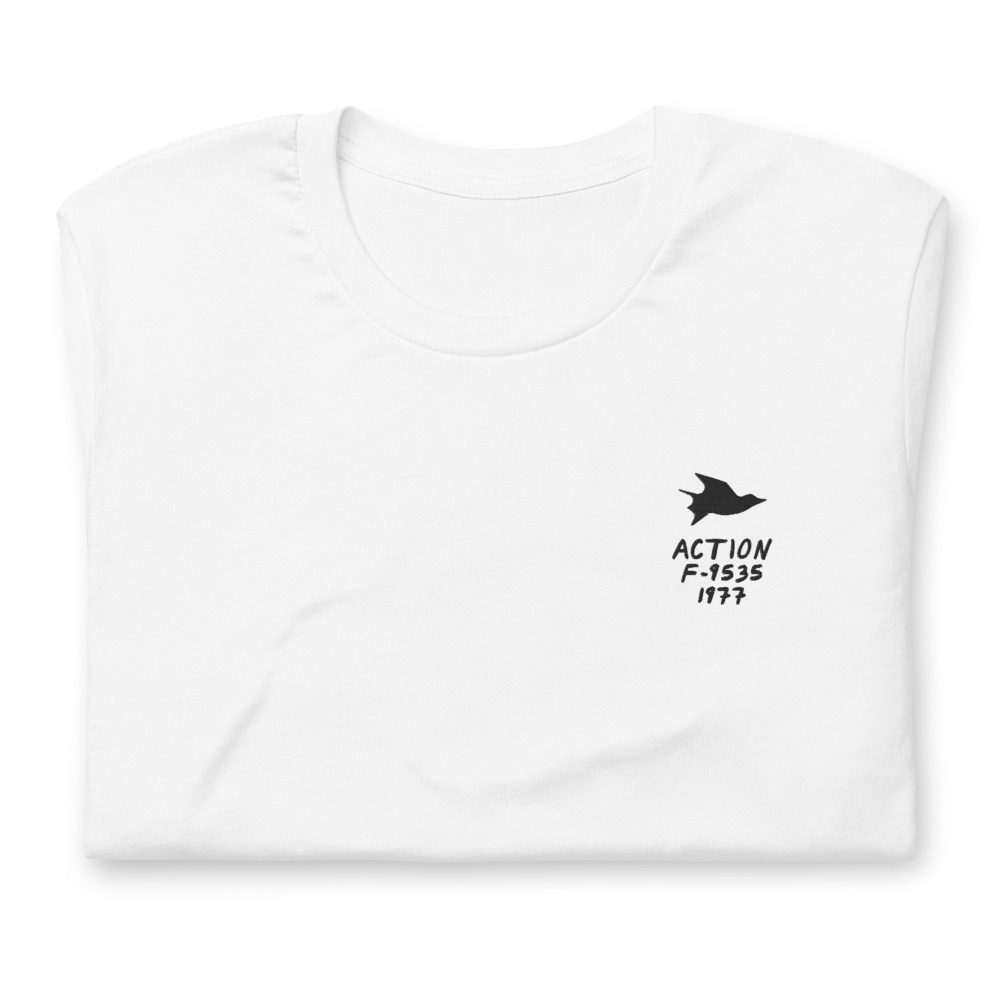
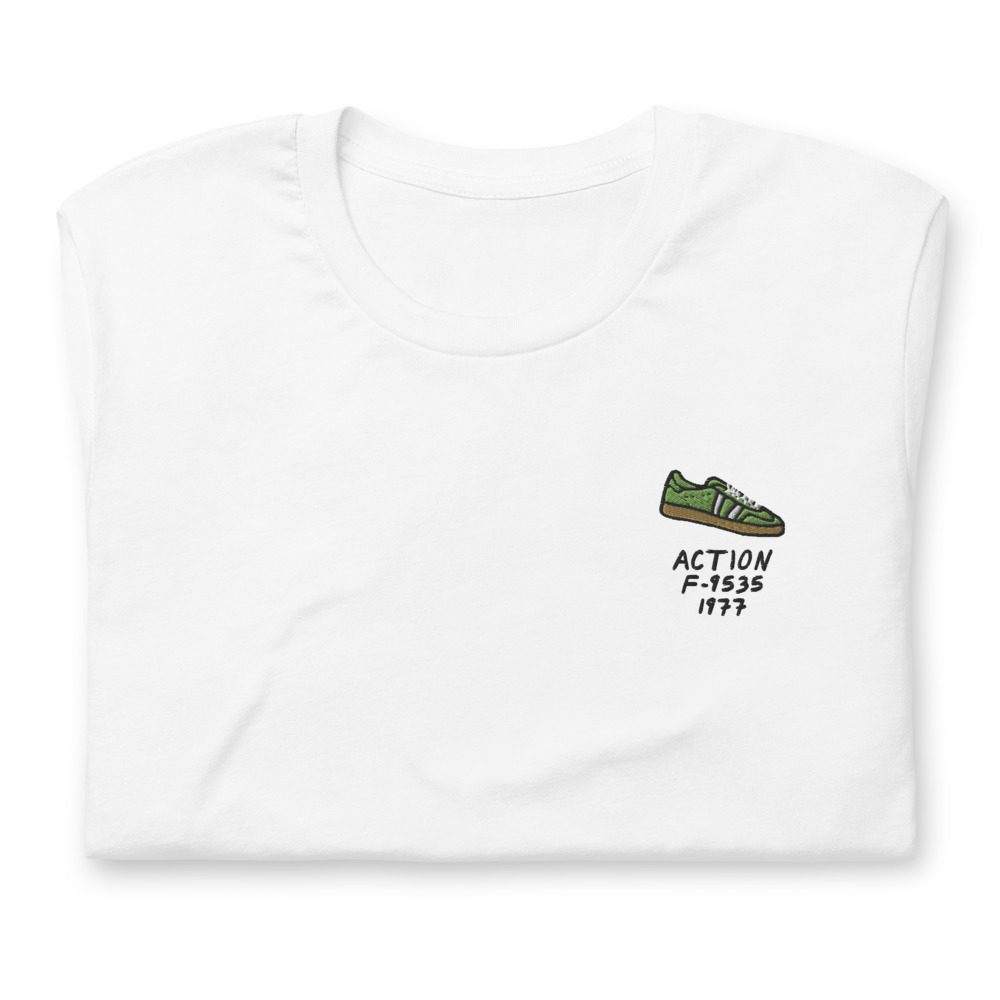
Deploy build from source 795fe97

Changed region(s): [[0.651, 0.465, 0.806, 0.62]]

diff --git a/about.html b/about.html
@@ -49,7 +49,7 @@
 <p>I’ve been chasing both ever since: that warm 5 o’clock hour, and records that hold together from side A to side B.</p>
 <h2>Some of what I play</h2>
 <p>Random picks, in no order. Ask me tomorrow and it’d be a different list.</p>
-<p class="picks">Helene Smith, Sharon Jones &amp; The Dap-Kings, Whitney Houston, Jorge Autuori, Labi Siffre, Greenflow, Sylvester, Odyssey, Elis Regina, Letta Mbulu, Kalima, Roy Ayers Ubiquity, Evelyn “Champagne” King, Leo’s Sunshipp, Robert Palmer, The Esquires, Stevens &amp; Foster, The Brothers Johnson, Herb Alpert, Darondo, Willie Wright, NEL OLIVER, Depeche Mode, Oby Onyioha, The Jacksons, Wilfred Luckie, Gilberto Gil, Amerie.<br>
+<p class="picks">Isabelle Antena, Elis Regina, Madonna, Anita Ward, Marvin Gaye, Willie Wright, Khruangbin, Phyllis Hyman, Chemise, Raw Silk, Robert Lester Folsom, Thee Sacred Souls, Sean Paul, Jungle, The Blackbyrds, Volta Jazz, Say She She, Michael Jackson, Janet Jackson, Pamoja, Antena, El Guincho, Prince, BADBADNOTGOOD, Gene Harris, Evinha, Leo’s Sunshipp, Odyssey.<br>
 <span class="m">Shuffled <time datetime="2026-10-20">2026-10-20</time>.</span></p>
 <p>A few labels I dig through: Athens of the North, Numero Group, Salsoul, Awesome Tapes from Africa, Jazz Dispensary.</p>
 <h2>The shelf</h2>

diff --git a/shop/g-39.html b/shop/g-39.html
@@ -68,7 +68,7 @@
 <h1>The Blackbyrds – Action</h1>
 <p class="m">LP · Fantasy F-9535 · 1977<br>
 Ungraded, checked before it ships</p>
-<p class="m">Comes with its own shirt: a white tee embroidered on the chest with its title, catalog number and year in my handwriting. Pick a size at checkout. It’s made for you and ships on its own.</p>
+<p class="m">Comes with its own shirt: a white tee embroidered on the chest with my drawing of the cover over its title, catalog number and year. Pick a size at checkout. It’s made for you and ships on its own.</p>
 <p><img class="shirt-pic" src="img/g-39-shirt-folded.jpg" width="1000" height="1000" loading="lazy" alt="Its shirt, folded: a white tee with the record embroidered on the chest"></p>
 <p><img class="shirt-pic" src="img/g-39-shirt-wrinkled.jpg" width="1000" height="1000" loading="lazy" alt="Its shirt, wrinkled: a white tee with the record embroidered on the chest"></p>
 <p><a href="https://buy.stripe.com/fZu8wRerI8DP3b80U29R61Q">Buy</a> <span class="m">$150</span></p>
